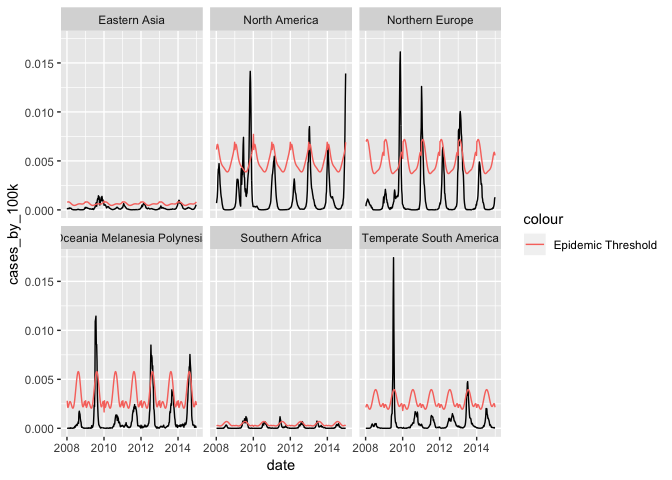
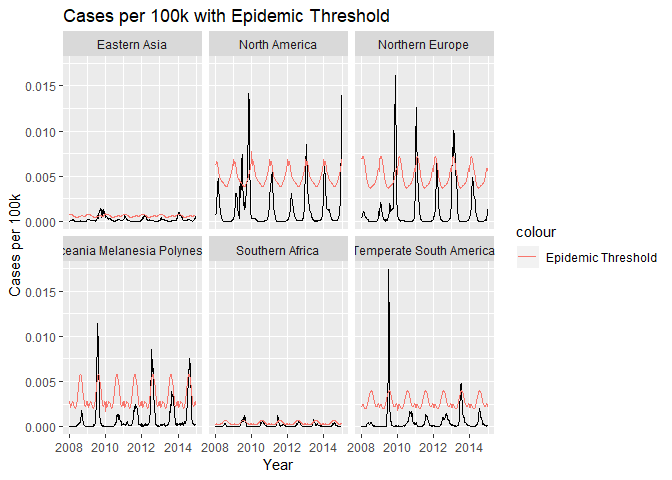
tidying up

diff --git a/report_and_data.md b/report_and_data.md
@@ -109,7 +109,12 @@ flu_df %>%
             type_b = sum(b_total)) %>% 
   gather(key = type, value = count, type_a:type_b) %>% 
   ggplot(aes(x = year, y = count, fill = type)) +
-  geom_bar(stat = 'identity', position = 'dodge')
+  geom_bar(stat = 'identity', position = 'dodge') +
+  labs(
+    title = 'Prevalence of Influenza Type by Year',
+    x = 'Year',
+    y = 'Positive Surveillane Samples'
+  )
 ```
 
 ![](report_and_data_files/figure-markdown_github/unnamed-chunk-4-1.png)
@@ -122,7 +127,12 @@ flu_df %>%
             h5 = sum(h5)) %>% 
   gather(key = subtype, value = count, h1n1:h5) %>% 
   ggplot(aes(x = year, y = count, fill = subtype)) +
-  geom_bar(stat = 'identity', position = 'dodge')
+  geom_bar(stat = 'identity', position = 'dodge') +
+  labs(
+    title = 'Prevalence of Influenza A Subtype by Year',
+    x = 'Year',
+    y = 'Positive Surveillane Samples'
+  )
 ```
 
 ![](report_and_data_files/figure-markdown_github/unnamed-chunk-5-1.png)
@@ -282,7 +292,12 @@ flu_fitted %>%
   filter(fluregion == 'North America') %>% 
   ggplot(aes(x = date, y = cases_by_100k)) +
   geom_line() +
-  geom_line(aes(x = date, y = y0_ul, color = 'Epidemic Threshold')) 
+  geom_line(aes(x = date, y = y0_ul, color = 'Epidemic Threshold')) +
+  labs(
+    title = 'Cases per 100k with Epidemic Threshold',
+    x = 'Year',
+    y = 'Cases per 100k'
+  )
 ```
 
 ![](report_and_data_files/figure-markdown_github/unnamed-chunk-9-1.png)
@@ -318,7 +333,12 @@ serfling_df %>%
   ggplot(aes(x = date, y = cases_by_100k)) +
   geom_line() +
   geom_line(aes(x = date, y = y0_ul, color = 'Epidemic Threshold')) +
-  facet_wrap(~fluregion)
+  facet_wrap(~fluregion) +
+  labs(
+    title = 'Cases per 100k with Epidemic Threshold',
+    x = 'Year',
+    y = 'Cases per 100k'
+  )
 ```
 
 ![](report_and_data_files/figure-markdown_github/unnamed-chunk-11-1.png)
